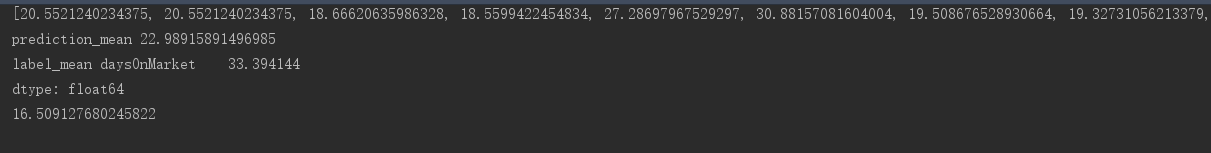
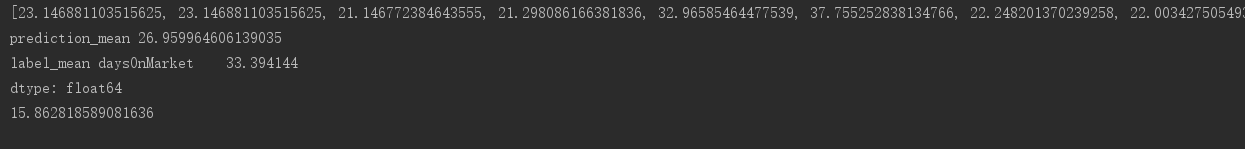
modify

diff --git a/Linear_DNN_Combined_model/fourth.py b/Linear_DNN_Combined_model/fourth.py
@@ -25,8 +25,8 @@ from sklearn.metrics import mean_absolute_error
 tf.logging.set_verbosity(tf.logging.INFO)
 
 dirname = os.path.dirname(os.getcwd())
-train_filename = '\\month_4_2.csv'
-test_filename = '\\test_data_6_2.csv'
+train_filename = '\\month_4_1.csv'
+test_filename = '\\test_data_6_1.csv'
 
 # 加载训练数据
 data = pd.read_csv(dirname + train_filename, header=0)

diff --git a/Linear_DNN_Combined_model/second.py b/Linear_DNN_Combined_model/second.py
@@ -15,7 +15,7 @@ from sklearn.preprocessing import MinMaxScaler
 tf.logging.set_verbosity(tf.logging.INFO)
 
 dirname = os.path.dirname(os.getcwd())
-train_filename = '\\month_5_1.csv'
+train_filename = '\\month_4_1.csv'
 test_filename = '\\test_data_6_1.csv'
 
 # 加载训练数据

diff --git a/Linear_DNN_Combined_model/third.py b/Linear_DNN_Combined_model/third.py
@@ -15,7 +15,7 @@ from sklearn.preprocessing import MinMaxScaler
 tf.logging.set_verbosity(tf.logging.INFO)
 
 dirname = os.path.dirname(os.getcwd())
-train_filename = '\\month_5_1.csv'
+train_filename = '\\month_4_1.csv'
 test_filename = '\\test_data_6_1.csv'
 
 # 加载训练数据

diff --git a/o(n)_get_the_second_value.py b/o(n)_get_the_second_value.py
@@ -1,0 +1,10 @@
+#-*- coding:utf-8 _*-  
+""" 
+@author:Administrator
+@file: o(n)_get_the_second_value.py
+@time: 2018/7/20
+"""
+
+a = [1,3,5,2,6,8,4,10]
+for index,value in enumerate(a):
+    pass
